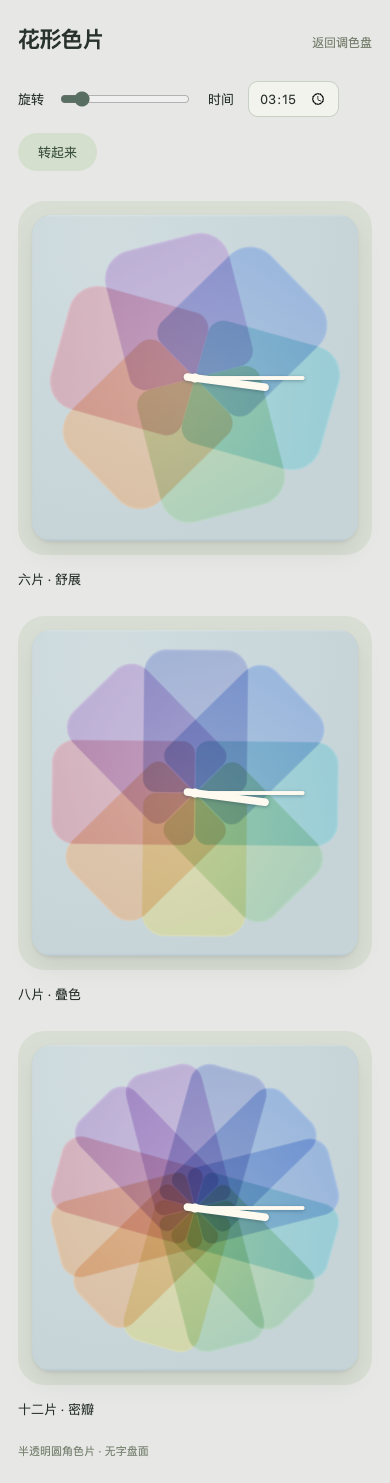
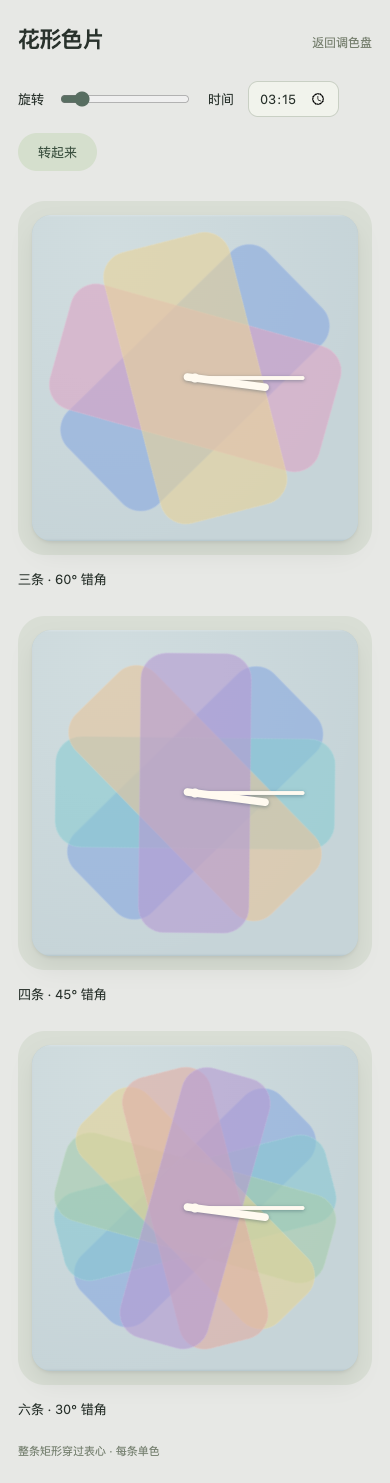
design: center full monochrome rectangles across flower clock pivot

diff --git a/design/template-library-2026-11-01/flower-study/study.css b/design/template-library-2026-11-01/flower-study/study.css
@@ -1,3 +1,8 @@
 *{box-sizing:border-box}body{margin:0;background:#e7e8e5;color:#29322c;font-family:-apple-system,BlinkMacSystemFont,'PingFang SC',sans-serif}main{max-width:1380px;margin:auto;padding:32px}header{display:flex;align-items:baseline;justify-content:space-between;gap:20px;margin-bottom:27px}h1{margin:0;font-size:24px;letter-spacing:-.6px}header a{font-size:12px;color:#77806f;text-decoration:none}.controls{display:flex;align-items:center;gap:32px;margin-bottom:30px;font-size:13px}.controls label{display:flex;align-items:center;gap:14px}.controls input[type=range]{accent-color:#586e61;width:170px}.controls input[type=time]{padding:7px 10px;border:1px solid #c9d0c4;background:#f1f3ec;color:inherit;border-radius:10px;font:inherit}.controls button{border:0;border-radius:24px;background:#d5dfcd;color:#3c5140;padding:10px 20px;font:inherit;cursor:pointer}.controls button[aria-pressed=true]{background:#3c5140;color:#fff}.studies{display:grid;grid-template-columns:repeat(3,minmax(0,1fr));gap:30px}figure{margin:0;min-width:0}.mount{background:#d9ded5;border-radius:27px;padding:16px}.slot{width:100%;container-type:inline-size;isolation:isolate}.art{border-radius:6cqw;box-shadow:0 2px 3px #0001,0 12px 22px #25332416}.flower-face{--sheet-base:#c6d4d8}.flower-face .palette-art{background:radial-gradient(ellipse at 23% 9%,#f6fcf838,transparent 75%),var(--sheet-base)}.flower-stack{position:absolute;inset:0;transform:rotate(var(--rotation,0deg));isolation:isolate}.petal{position:absolute;top:50%;left:50%;width:var(--petal-w);height:44%;border-radius:7cqw 7cqw 4cqw 4cqw;transform-origin:50% 100%;transform:translate(-50%,-100%) rotate(var(--angle));background:linear-gradient(165deg,var(--color),var(--color-soft));opacity:.67;box-shadow:inset 0 .3cqw .5cqw #ffffff55,inset 0 -.25cqw .4cqw #44627a12;mix-blend-mode:multiply}.flower-face.count-6{--petal-w:39%}.flower-face.count-8{--petal-w:32%}.flower-face.count-12{--petal-w:24%}.count-12 .petal{border-radius:6cqw 6cqw 3cqw 3cqw}.count-6 .petal{height:43%;border-radius:9cqw 9cqw 5cqw 5cqw}.flower-face .palette-art>svg{filter:drop-shadow(0 .4cqw .6cqw #2644566b)}figcaption{font-size:13px;margin-top:15px}footer{font-size:11px;color:#7a8474;margin-top:30px}.playing .flower-stack{animation:flower-turn 28s linear infinite}@keyframes flower-turn{from{transform:rotate(var(--rotation,0deg))}to{transform:rotate(calc(var(--rotation,0deg) + 360deg))}}@media(prefers-reduced-motion:reduce){.playing .flower-stack{animation:none}}@media(max-width:760px){main{padding:24px 18px}.studies{grid-template-columns:1fr;gap:28px;max-width:470px;margin:auto}.controls{gap:16px;flex-wrap:wrap}.controls input[type=range]{width:130px}h1{font-size:22px}.mount{padding:14px}footer{margin-top:25px}}
 .flower-stack{animation:flower-turn 28s linear infinite;animation-play-state:paused}.playing .flower-stack{animation-play-state:running}
 @media(prefers-reduced-motion:reduce){.flower-stack{animation:none}}
+
+/* Each monochrome rectangle is centered on the pivot and extends to both sides. */
+.petal{height:86%;border-radius:8cqw;transform-origin:50% 50%;transform:translate(-50%,-50%) rotate(var(--angle));background:var(--color);opacity:.62;mix-blend-mode:normal;box-shadow:inset 0 0 0 .18cqw #ffffff40}
+.flower-face.count-6{--petal-w:40%}.flower-face.count-8{--petal-w:34%}.flower-face.count-12{--petal-w:28%}
+.count-6 .petal,.count-12 .petal{height:86%;border-radius:8cqw}

diff --git a/design/template-library-2026-11-01/flower-study/study.js b/design/template-library-2026-11-01/flower-study/study.js
@@ -1,6 +1,6 @@
 (function(){
-const colors=[['#82a6df','#a5bedf'],['#83c8d4','#9ed8d9'],['#9dccad','#c4dcaa'],['#d7d793','#e8dfab'],['#e3b68c','#e9c6a4'],['#d69cab','#e2b4c3'],['#b399d1','#cbb6df'],['#8d9fd2','#b1b5db']];let rotation=0,tick=new Date('2026-11-01T10:09:00+08:00').getTime(),playing=false;
-function render(){for(const count of [6,8,12]){const t=document.createElement('template');t.innerHTML=TemplateRender.render('dial',{tick});const art=t.content.querySelector('.art'),face=t.content.querySelector('.palette-art'),hands=face.querySelector('svg');art.classList.add('flower-face','count-'+count);face.replaceChildren();const stack=document.createElement('div');stack.className='flower-stack';stack.style.setProperty('--rotation',rotation+'deg');for(let i=0;i<count;i++){const c=colors[Math.floor(i*colors.length/count)],petal=document.createElement('i');petal.className='petal';petal.style.cssText=`--angle:${i*360/count}deg;--color:${c[0]};--color-soft:${c[1]}`;stack.append(petal);}face.append(stack,hands);document.getElementById('flower-'+count).replaceChildren(t.content);}document.body.classList.toggle('playing',playing);}
+const schemes={6:['#89a9df','#dca5c4','#e6d29a'],8:['#89a9df','#8bcbd1','#e5c49d','#b59bd2'],12:['#89a9df','#88c7d1','#a6ccac','#e3d397','#e0aea5','#b59bd2']};let rotation=0,tick=new Date('2026-11-01T10:09:00+08:00').getTime(),playing=false;
+function render(){for(const count of [6,8,12]){const t=document.createElement('template');t.innerHTML=TemplateRender.render('dial',{tick});const art=t.content.querySelector('.art'),face=t.content.querySelector('.palette-art'),hands=face.querySelector('svg');art.classList.add('flower-face','count-'+count);face.replaceChildren();const stack=document.createElement('div');stack.className='flower-stack';stack.style.setProperty('--rotation',rotation+'deg');for(let i=0;i<count/2;i++){const c=schemes[count][i],petal=document.createElement('i');petal.className='petal';petal.style.cssText=`--angle:${i*360/count}deg;--color:${c}`;stack.append(petal);}face.append(stack,hands);document.getElementById('flower-'+count).replaceChildren(t.content);}document.body.classList.toggle('playing',playing);}
 document.getElementById('rotation').oninput=e=>{rotation=Number(e.target.value);document.querySelectorAll('.flower-stack').forEach(s=>s.style.setProperty('--rotation',rotation+'deg'));};document.getElementById('time').oninput=e=>{if(!/^\d{2}:\d{2}$/.test(e.target.value))return;const [h,m]=e.target.value.split(':').map(Number),d=new Date(tick);d.setHours(h,m,0,0);tick=d.getTime();render();};document.getElementById('play').onclick=()=>{playing=!playing;document.body.classList.toggle('playing',playing);document.getElementById('play').setAttribute('aria-pressed',String(playing));document.getElementById('play').textContent=playing?'暂停':'转起来';};
 window.FlowerStudy={snapshot:()=>({rotation,tick,playing})};render();
 })();

diff --git a/design/template-library-2026-11-01/flower-study/index.html b/design/template-library-2026-11-01/flower-study/index.html
@@ -1,1 +1,1 @@
-<!doctype html><html lang="zh-CN"><meta charset="utf-8"><meta name="viewport" content="width=device-width,initial-scale=1"><title>调色盘 · 花形色片</title><link rel="stylesheet" href="../templates.css"><link rel="stylesheet" href="study.css"><body><main><header><h1>花形色片</h1><a href="../index.html?design=dial">返回调色盘</a></header><div class="controls"><label>旋转<input id="rotation" type="range" min="0" max="360" value="0"></label><label>时间<input id="time" type="time" value="10:09"></label><button id="play" aria-pressed="false">转起来</button></div><section class="studies" aria-label="三种花形"><figure data-petals="6"><div class="mount"><div class="slot" id="flower-6"></div></div><figcaption>六片 · 舒展</figcaption></figure><figure data-petals="8"><div class="mount"><div class="slot" id="flower-8"></div></div><figcaption>八片 · 叠色</figcaption></figure><figure data-petals="12"><div class="mount"><div class="slot" id="flower-12"></div></div><figcaption>十二片 · 密瓣</figcaption></figure></section><footer>半透明圆角色片 · 无字盘面</footer></main><script src="../../../previewer/shared-models.js"></script><script src="../catalog.js"></script><script src="../fixtures.js"></script><script src="../renderers.js"></script><script src="study.js"></script></body></html>
+<!doctype html><html lang="zh-CN"><meta charset="utf-8"><meta name="viewport" content="width=device-width,initial-scale=1"><title>调色盘 · 花形色片</title><link rel="stylesheet" href="../templates.css"><link rel="stylesheet" href="study.css"><body><main><header><h1>花形色片</h1><a href="../index.html?design=dial">返回调色盘</a></header><div class="controls"><label>旋转<input id="rotation" type="range" min="0" max="360" value="0"></label><label>时间<input id="time" type="time" value="10:09"></label><button id="play" aria-pressed="false">转起来</button></div><section class="studies" aria-label="三种花形"><figure data-petals="6"><div class="mount"><div class="slot" id="flower-6"></div></div><figcaption>三条 · 60° 错角</figcaption></figure><figure data-petals="8"><div class="mount"><div class="slot" id="flower-8"></div></div><figcaption>四条 · 45° 错角</figcaption></figure><figure data-petals="12"><div class="mount"><div class="slot" id="flower-12"></div></div><figcaption>六条 · 30° 错角</figcaption></figure></section><footer>整条矩形穿过表心 · 每条单色</footer></main><script src="../../../previewer/shared-models.js"></script><script src="../catalog.js"></script><script src="../fixtures.js"></script><script src="../renderers.js"></script><script src="study.js"></script></body></html>

diff --git a/design/template-library-2026-11-01/flower-study/README.md b/design/template-library-2026-11-01/flower-study/README.md
@@ -2,7 +2,7 @@
 
 2026-11-01。按用户要求，将上一版圆角矩形色片围绕表心旋转，形成花状的时钟盘面。
 
-- 六片舒展、八片叠色、十二片密瓣；同一配色顺序，方便比较形态和密度。
+- 三条 / 四条 / 六条单色矩形分别以 60° / 45° / 30° 错角叠放。每条的几何中心与表心重合，两端都露出；色片本体不使用渐变。
 - 复用现有调色盘的共享时间模型和指针，不在盘面添加文字、数字或日期。
 - 旋转滑条、预览时间，以及浏览器内的缓慢旋转/暂停；尊重减少动态效果设置。
 - 仅为独立设计试作，未替换图库中的调色盘，也没有修改正式 App 或承诺桌面持续动画。

diff --git a/design/template-library-2026-11-01/README.md b/design/template-library-2026-11-01/README.md
@@ -6,7 +6,7 @@
 
 [调色盘与其他精修样稿](polish.html)：重做随时间转动的半透明色片与实心指针，盘面不显示文字，4 组配色；改进环绕、一天、年轮、周课表、月记、电格。纪念章已删除，当前共 39 款单卡与 5 组组合。图库点开调色盘可改预览时间。
 
-[花形色片试作](flower-study/index.html)：六片、八片、十二片圆角矩形绕表心叠放，可调角度并播放缓慢旋转。
+[花形色片试作](flower-study/index.html)：三条、四条、六条单色圆角矩形穿过表心、错角叠放，可调角度并播放缓慢旋转。
 
 ## 查看
 
